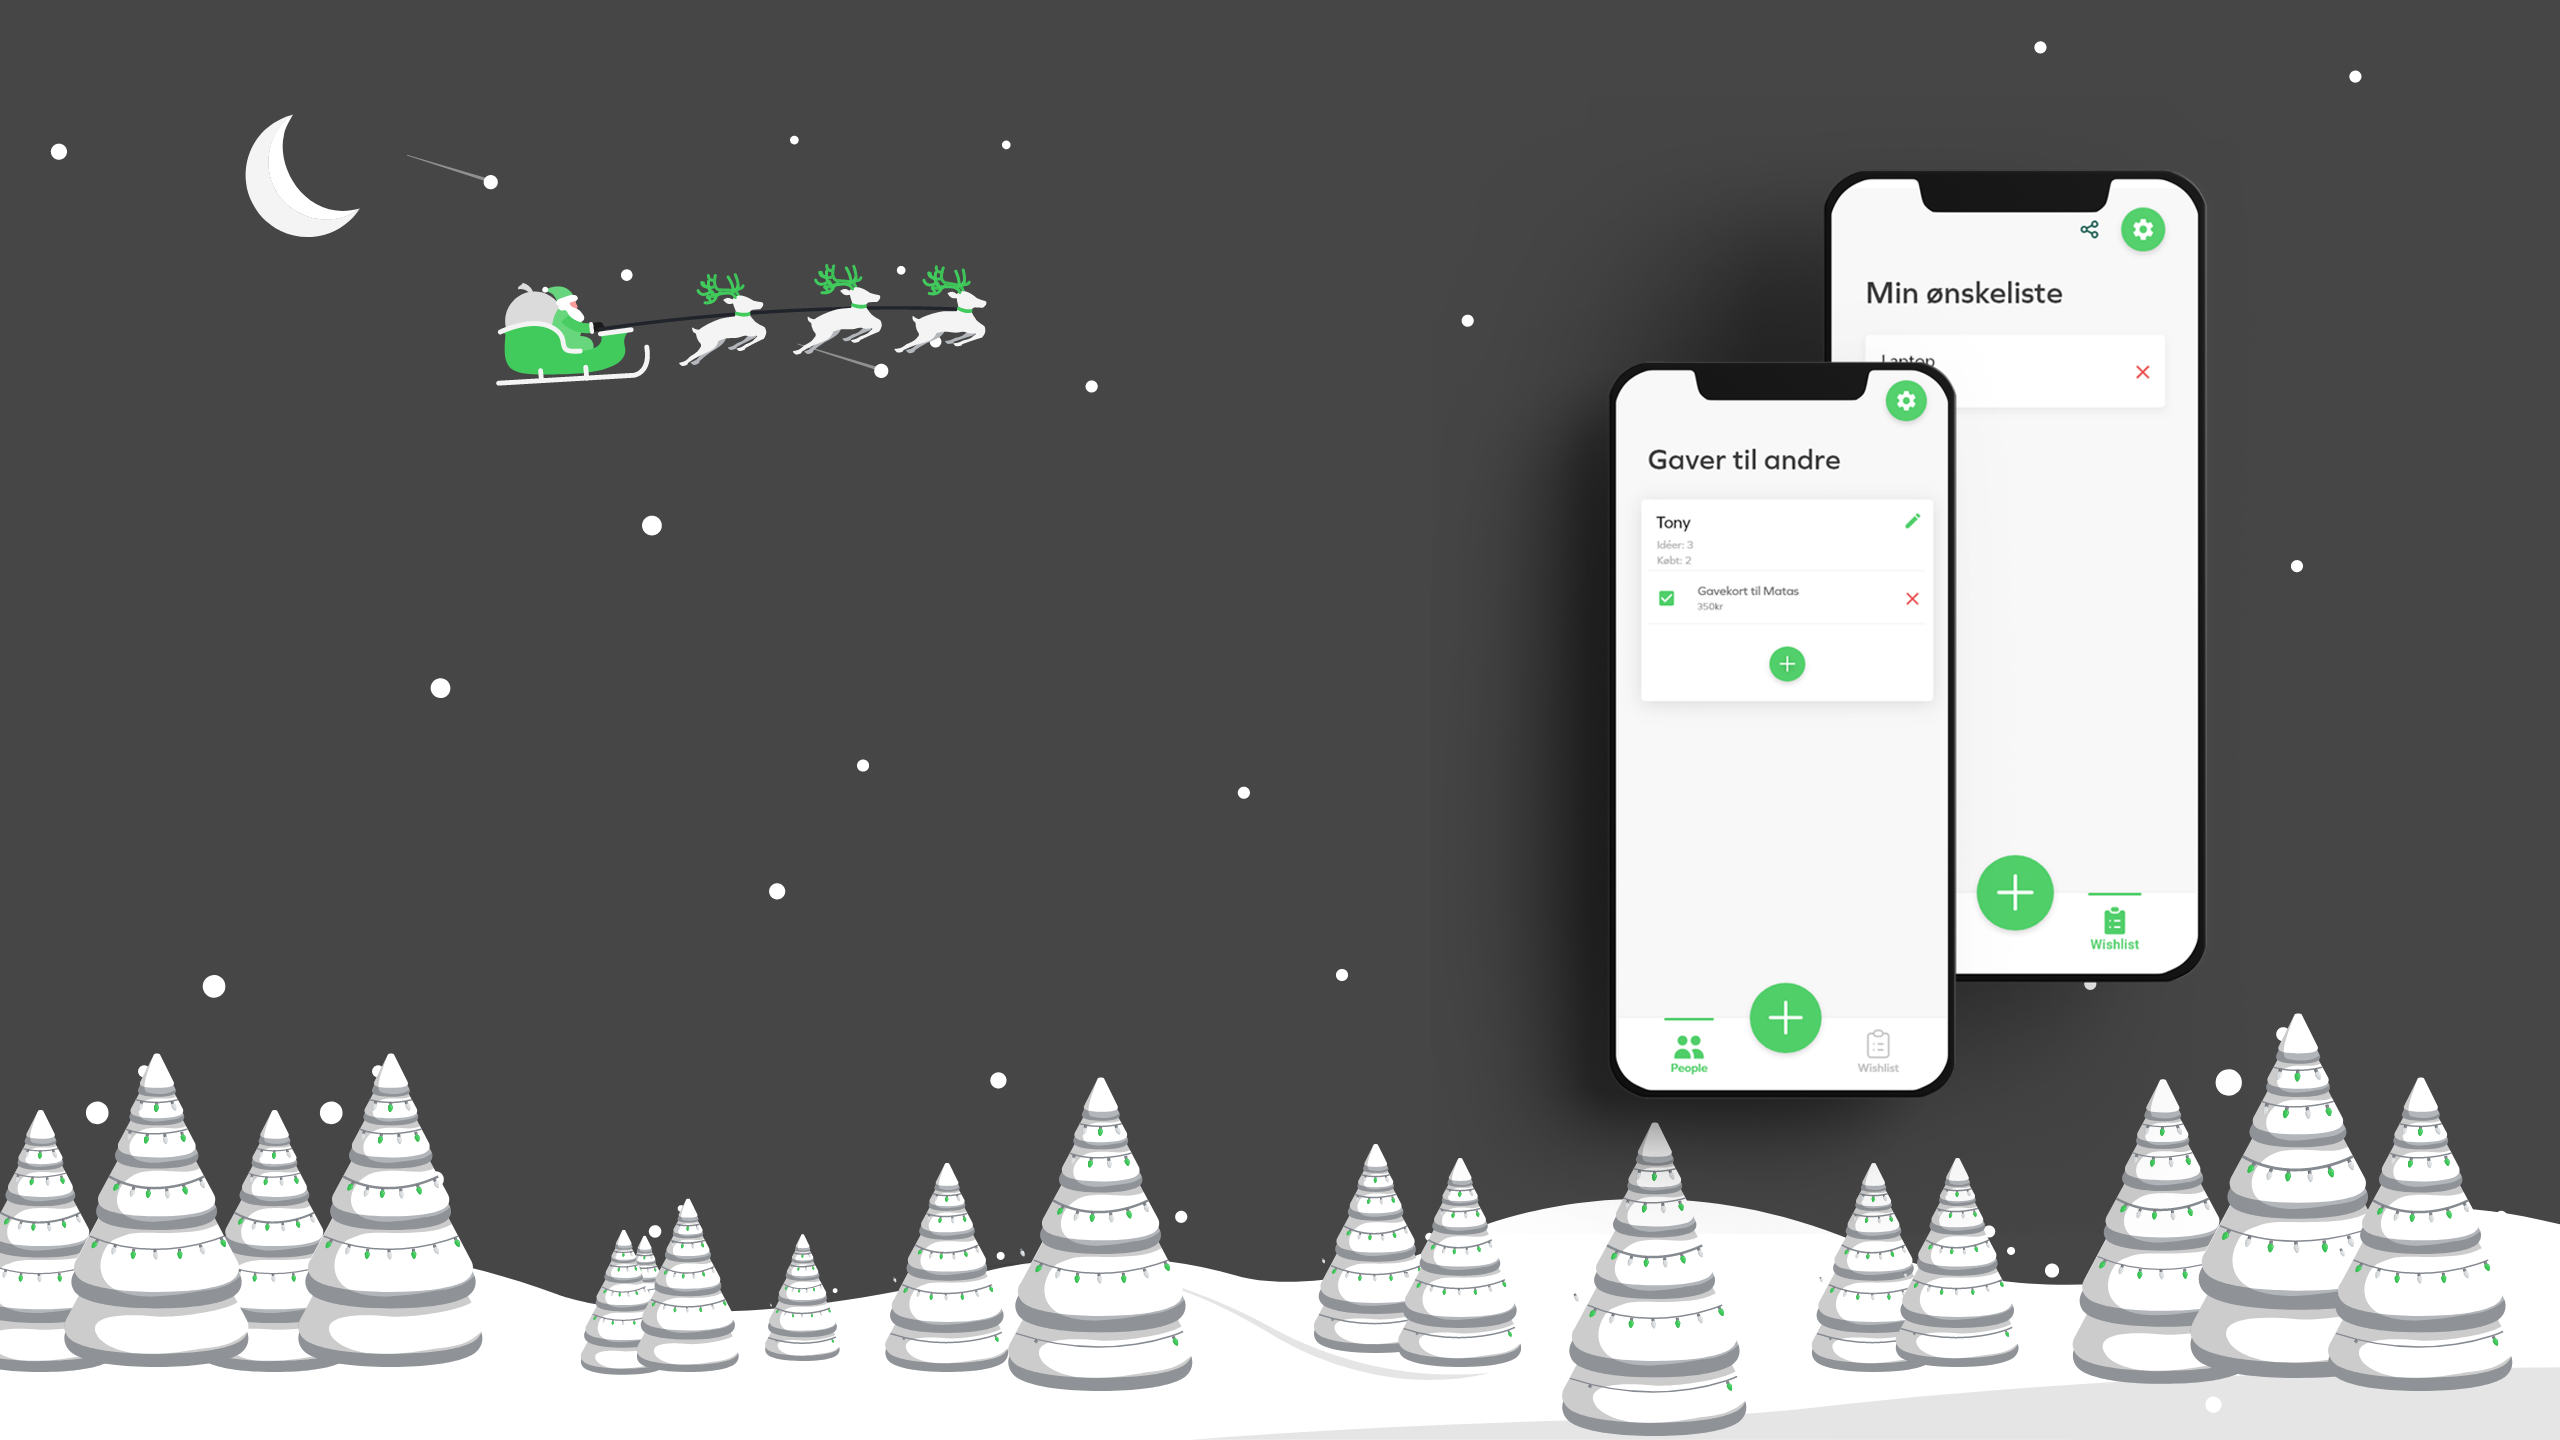
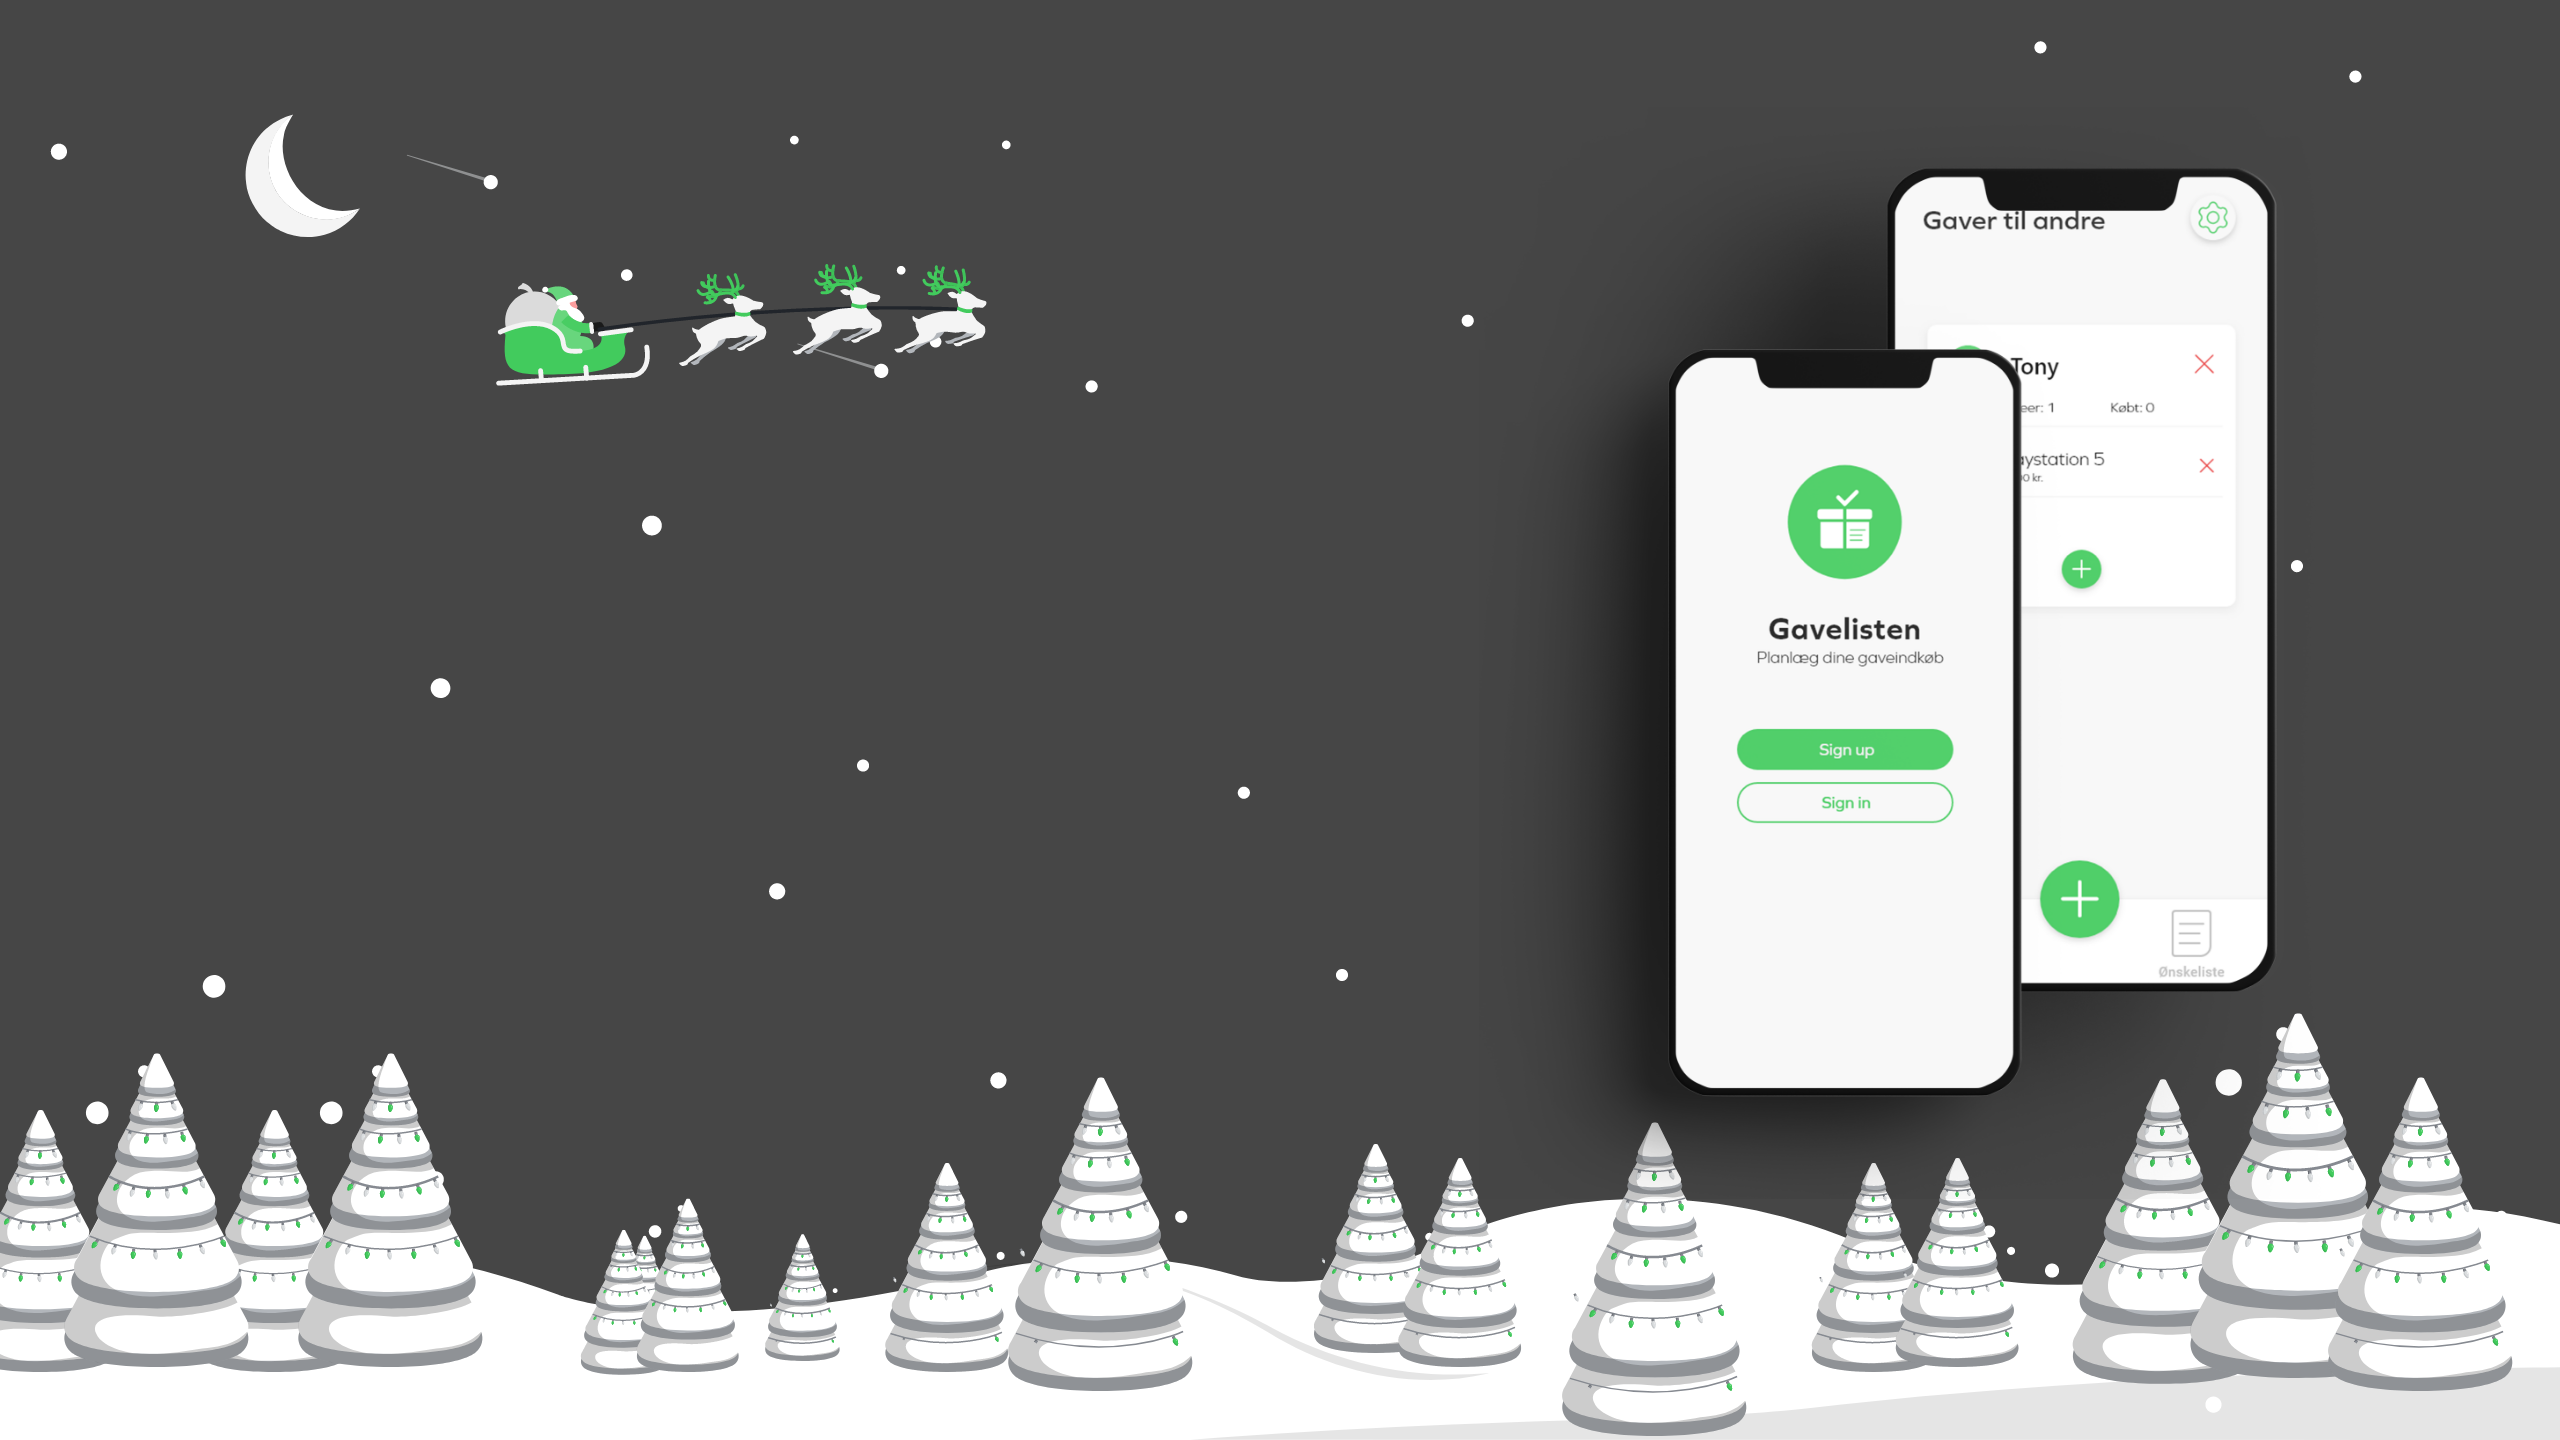
changed background images

Changed region(s): [[0.625, 0.0938, 0.9062, 0.7812]]

diff --git a/index.html b/index.html
@@ -19,7 +19,7 @@
             </div>
             <div class="flexcontainer2">
                 <a href="" target="_blank" class="button">Download App</a>
-                <a href="" target="_blank" class="button">Gå til web app</a>
+                <a href="https://hjorthex.com/dashboard.html" target="_blank" class="button">Gå til web app</a>
             </div>
         </section>
         <section class="textsection">

diff --git a/css/style.css b/css/style.css
@@ -41,7 +41,7 @@
 }
 @media only screen and (min-width: 801px) {
     .herosection {
-        background-image: url(../img/dekstop_background_1.png);
+        background-image: url(../img/desktop_background_2.png);
     }
     .hero-header {
         font-size: 5.5vw;
